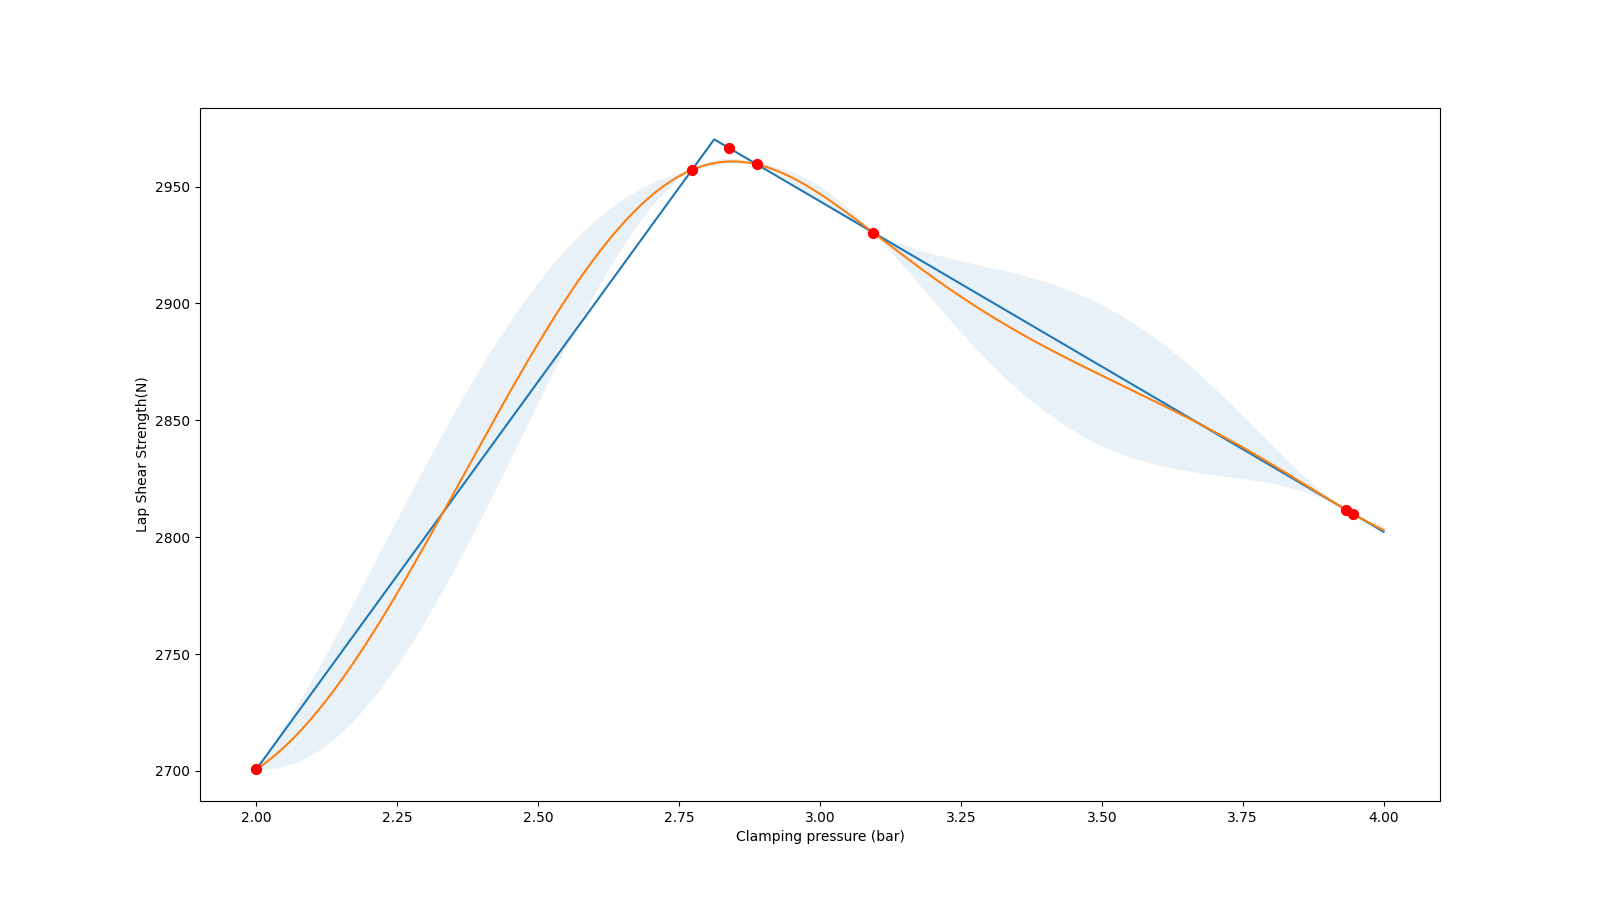
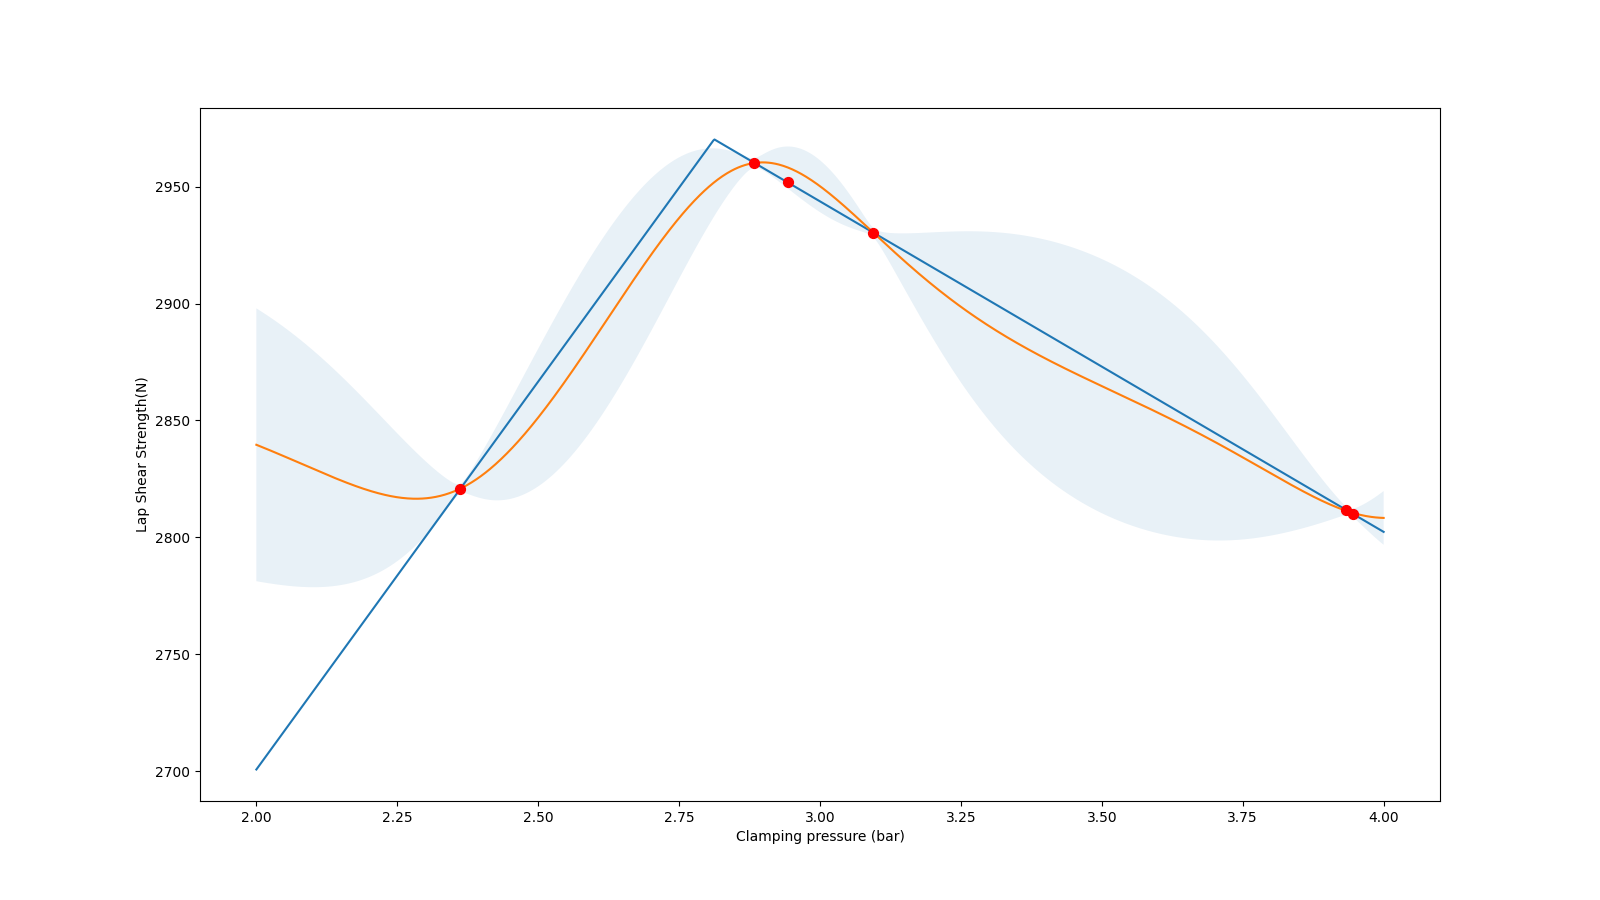
Noting error in 2 variables

diff --git a/FL_test.py b/FL_test.py
@@ -1,7 +1,7 @@
 #commit test
 import numpy as np
 import matplotlib.pyplot as plt
-from bayesian_optimization import BayesianOptimization, UtilityFunction
+from bayesian_optimization import BayesianOptimization, UtilityFunction, DiscreteBayesianOptimization
 from Environment import environment, environment_array
 
 data = []
@@ -11,10 +11,10 @@ h = []
 j = []
 
 
-cvalues=np.linspace(2,3,1000)
+cvalues=np.linspace(2,4,1000)
 avalues = np.linspace(1000,1500,len(cvalues))
 bvalues=np.linspace(40, 65, len(cvalues))
-cdata=np.linspace(2, 3, len(cvalues))
+cdata=np.linspace(2, 4, len(cvalues))
 bdata=np.linspace(40, 65, len(cvalues))
 
 for i in range(len(bdata)):
@@ -34,21 +34,21 @@ plt.ylabel('Lap Shear Strength (N)')
 plt.xlabel('Clamping pressure (bar)')
 data=np.round(data)
 plt.plot(cdata,data)
+plt.show()
 
 
 plt.show()
-
+b = bvalues
+c = cvalues
 np.random.seed(42)
-xs = np.linspace(2, 4, 1000)
+
 def f(x):
     return environment_array(x)
-plt.plot(xs,f(xs))
-plt.show()
 
 def plot_bo(f, bo):
     x = np.linspace(2, 4, 1000)
     mean, sigma = bo._gp.predict(x.reshape(-1, 1), return_std=True)
-
+    #error arrising here determining distance between each pair of two collections of inputs
     plt.figure(figsize=(16, 9))
     plt.plot(x, f(x))
     plt.plot(x, mean)
@@ -62,18 +62,21 @@ def plot_bo(f, bo):
 #ucb
 #Prefer exploitation kappa = 1
 #Prefer exploration (kappa = 10)
+
 bo = BayesianOptimization(
     f=f,
-    pbounds={"x": (2, 4)},
+    pbounds={'x':(2,4)},
     verbose=2,
     random_state=4,
 )
 
-bo.maximize(n_iter=4, acq="ucb", xi= 0, kappa=1, init_points=3)
+bo.maximize(n_iter=4, acq="ucb", xi= 0, kappa=1, init_points=3, alpha= 1e-3)
 
 plot_bo(f, bo)
 
+
 #ei prefer exploration xi = 0
+
 bo = BayesianOptimization(
     f=f,
     pbounds={"x": (2, 4)},

diff --git a/Environment.py b/Environment.py
@@ -74,5 +74,3 @@ def environment_array(x):
 
 
 
-
-
